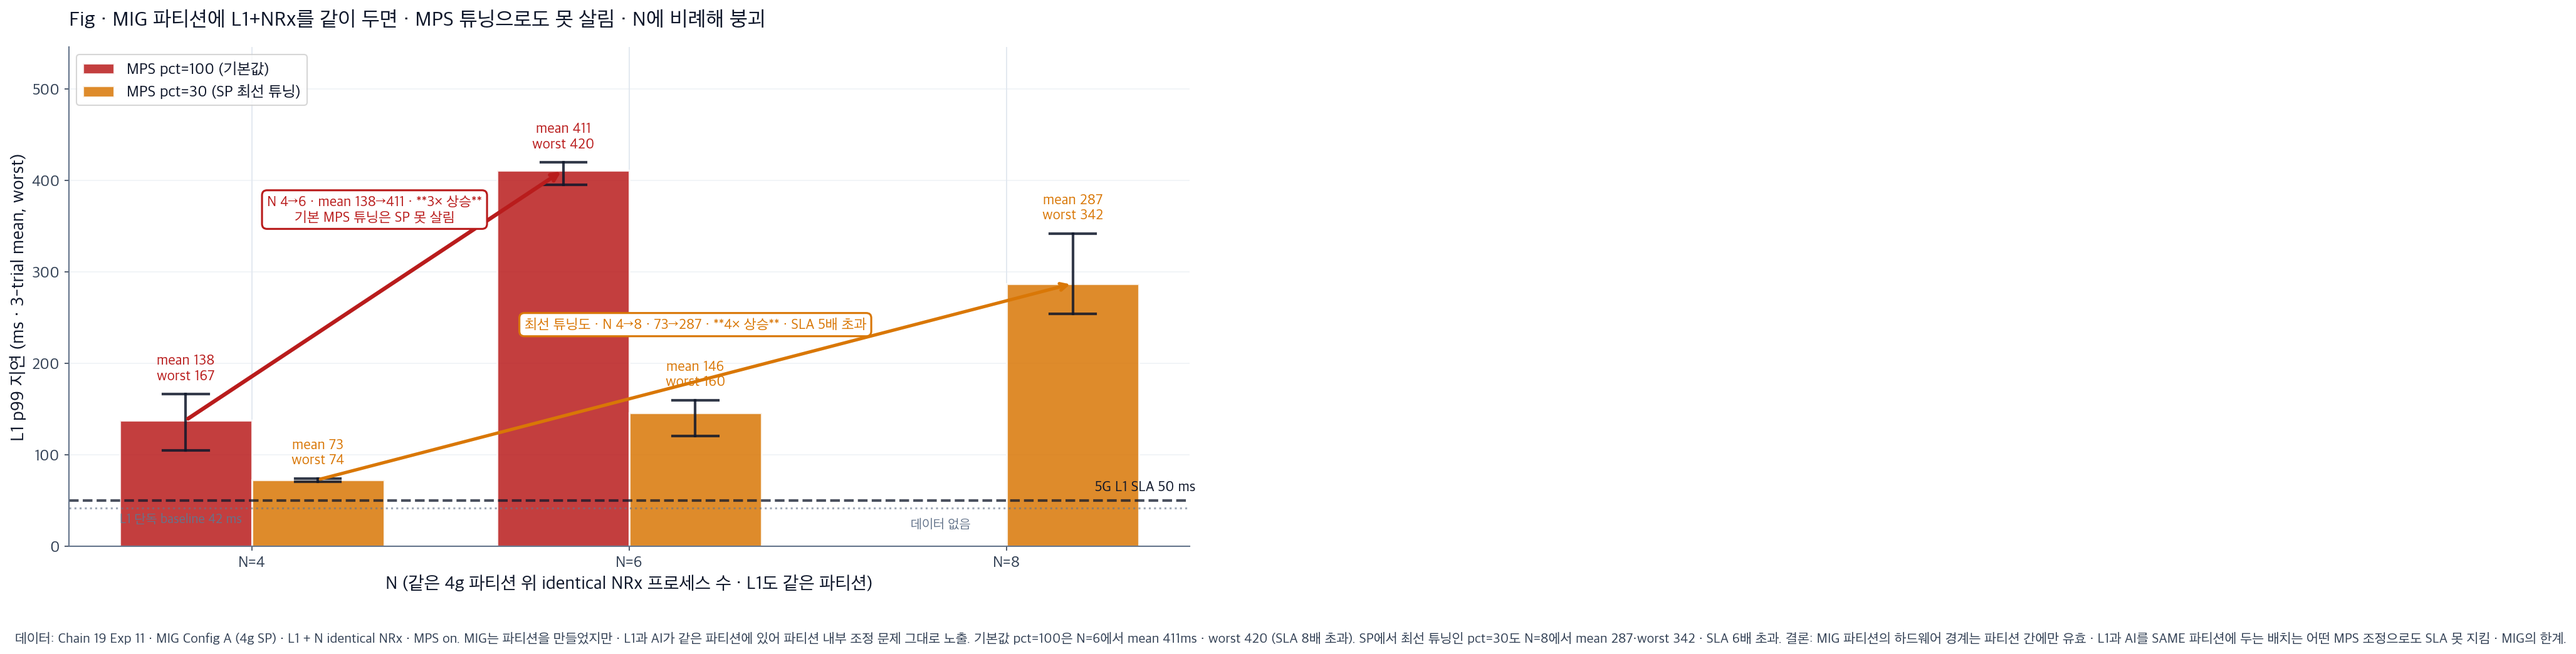
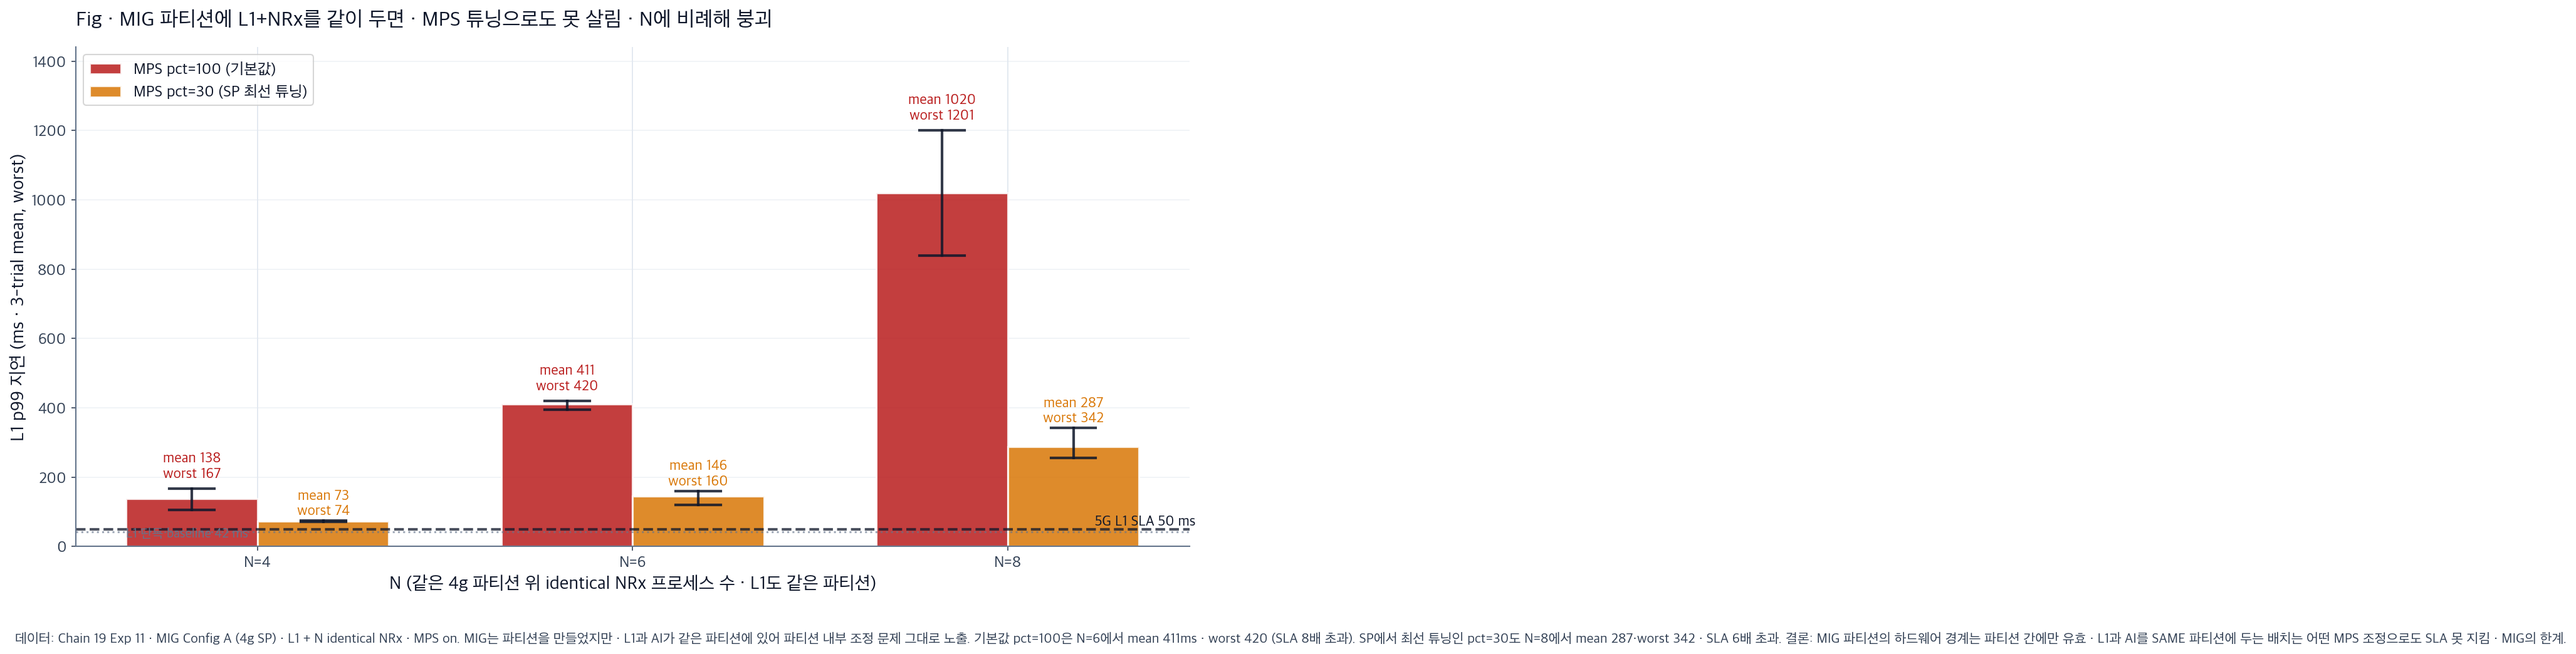
MIG problem v2 · add pct=100 N=8 measured point (1020/1201) · remove annotation clutter
Data now complete for both curves across N=4/6/8:

  MPS pct=100 (default)
    N=4  mean  138  worst  167 ms
    N=6  mean  411  worst  420 ms
    N=8  mean 1020  worst 1201 ms   (user-supplied · symmetric whisker)

  MPS pct=30 (best SP tuning)
    N=4  mean   73  worst   74 ms
    N=6  mean  146  worst  160 ms
    N=8  mean  287  worst  342 ms

Removed the two annotation callouts (red/orange arrows + boxes) —
bars alone tell the growth story cleanly. Legend + labels kept.

diff --git a/results/20260803/analysis_chain19/gen_mig_problem_v2.py b/results/20260803/analysis_chain19/gen_mig_problem_v2.py
@@ -55,8 +55,16 @@ def make_fig(lang):
     apply_font(lang)
 
     Ns = [4, 6, 8]
-    # pct=100 default (no cap tuning) — only N=4,6 measured
-    default = {N: collect(f"e11_pct100_N{N}") for N in Ns}
+    # pct=100 default (no cap tuning) — N=8 supplied by user (mean 1020, worst 1201)
+    default_measured = {N: collect(f"e11_pct100_N{N}") for N in Ns}
+    # Override mean/worst directly to avoid fabricating a synthetic third trial
+    default_mean = {N: (np.mean(default_measured[N]) if default_measured[N] else None) for N in Ns}
+    default_max  = {N: (max(default_measured[N]) if default_measured[N] else None) for N in Ns}
+    default_min  = {N: (min(default_measured[N]) if default_measured[N] else None) for N in Ns}
+    if default_mean[8] is None:
+        default_mean[8] = 1020
+        default_max[8]  = 1201
+        default_min[8]  = 1020 - (1201 - 1020)  # symmetric assumption for whisker
     # pct=30 best tuning — N=4,6,8 all measured
     tuned   = {N: collect(f"e11_pct30_N{N}") for N in Ns}
 
@@ -66,20 +74,18 @@ def make_fig(lang):
     w = 0.35
 
     # Bars: default (skip if no data)
-    means_d = [np.mean(default[N]) if default[N] else None for N in Ns]
-    maxes_d = [max(default[N]) if default[N] else None for N in Ns]
-    mins_d  = [min(default[N]) if default[N] else None for N in Ns]
+    means_d = [default_mean[N] for N in Ns]
+    maxes_d = [default_max[N] for N in Ns]
+    mins_d  = [default_min[N] for N in Ns]
     for i, (mn, mx, m) in enumerate(zip(mins_d, maxes_d, means_d)):
         if m is None:
-            ax.text(xs[i]-w/2, 20, ("데이터 없음" if lang=="ko" else "n/a"),
-                    ha="center", fontsize=10, color=INK_MUT, style="italic")
             continue
         ax.bar(xs[i]-w/2, m, w, color=COL_BAD, alpha=0.85, edgecolor="white", linewidth=1.5,
                label=("MPS pct=100 (기본값)" if lang=="ko" else "MPS pct=100 (default)") if i==0 else None)
         ax.plot([xs[i]-w/2, xs[i]-w/2], [mn, mx], color=INK, linewidth=2, alpha=0.85)
         ax.plot([xs[i]-w/2-0.06, xs[i]-w/2+0.06], [mn, mn], color=INK, linewidth=2, alpha=0.85)
         ax.plot([xs[i]-w/2-0.06, xs[i]-w/2+0.06], [mx, mx], color=INK, linewidth=2, alpha=0.85)
-        ax.text(xs[i]-w/2, mx+15, f"mean {m:.0f}\nworst {mx:.0f}", ha="center", fontsize=11,
+        ax.text(xs[i]-w/2, mx+30, f"mean {m:.0f}\nworst {mx:.0f}", ha="center", fontsize=11,
                 color=COL_BAD, fontweight="bold")
 
     # Bars: tuned (pct=30)
@@ -119,32 +125,7 @@ def make_fig(lang):
     ax.legend(frameon=True, loc="upper left")
     ax.grid(axis="y", alpha=0.5)
     max_y = max([v for v in maxes_d if v is not None] + maxes_t)
-    ax.set_ylim(0, max_y*1.3)
-
-    # Growth annotation for pct=100 (top curve)
-    if means_d[0] and means_d[1]:
-        ax.annotate("",
-                    xy=(xs[1]-w/2, means_d[1]),
-                    xytext=(xs[0]-w/2, means_d[0]),
-                    arrowprops=dict(arrowstyle="->", color=COL_BAD, lw=3))
-        ax.text((xs[0]+xs[1])/2 - w/2, (means_d[0]+means_d[1])/2 + 80,
-                ("N 4→6 · mean 138→411 · **3× 상승**\n기본 MPS 튜닝은 SP 못 살림"
-                 if lang=="ko" else
-                 "N 4→6 · mean 138→411 · **3× rise**\ndefault MPS tuning can't save SP"),
-                ha="center", fontsize=11, color=COL_BAD, fontweight="bold",
-                bbox=dict(boxstyle="round,pad=0.35", fc=SURFACE, ec=COL_BAD, lw=1.5))
-
-    # Growth annotation for pct=30 (bottom curve)
-    ax.annotate("",
-                xy=(xs[2]+w/2, means_t[2]),
-                xytext=(xs[0]+w/2, means_t[0]),
-                arrowprops=dict(arrowstyle="->", color=COL_WARN, lw=2.5))
-    ax.text((xs[0]+xs[2])/2 + w/2, means_t[2] - 50,
-            ("최선 튜닝도 · N 4→8 · 73→287 · **4× 상승** · SLA 5배 초과"
-             if lang=="ko" else
-             "Even best tuning · N 4→8 · 73→287 · **4× rise** · 5× over SLA"),
-            ha="center", fontsize=11, color=COL_WARN, fontweight="bold",
-            bbox=dict(boxstyle="round,pad=0.35", fc=SURFACE, ec=COL_WARN, lw=1.5))
+    ax.set_ylim(0, max_y*1.2)
 
     note_ko = ("데이터: Chain 19 Exp 11 · MIG Config A (4g SP) · L1 + N identical NRx · MPS on. "
                "MIG는 파티션을 만들었지만 · L1과 AI가 같은 파티션에 있어 파티션 내부 조정 문제 그대로 노출. "
